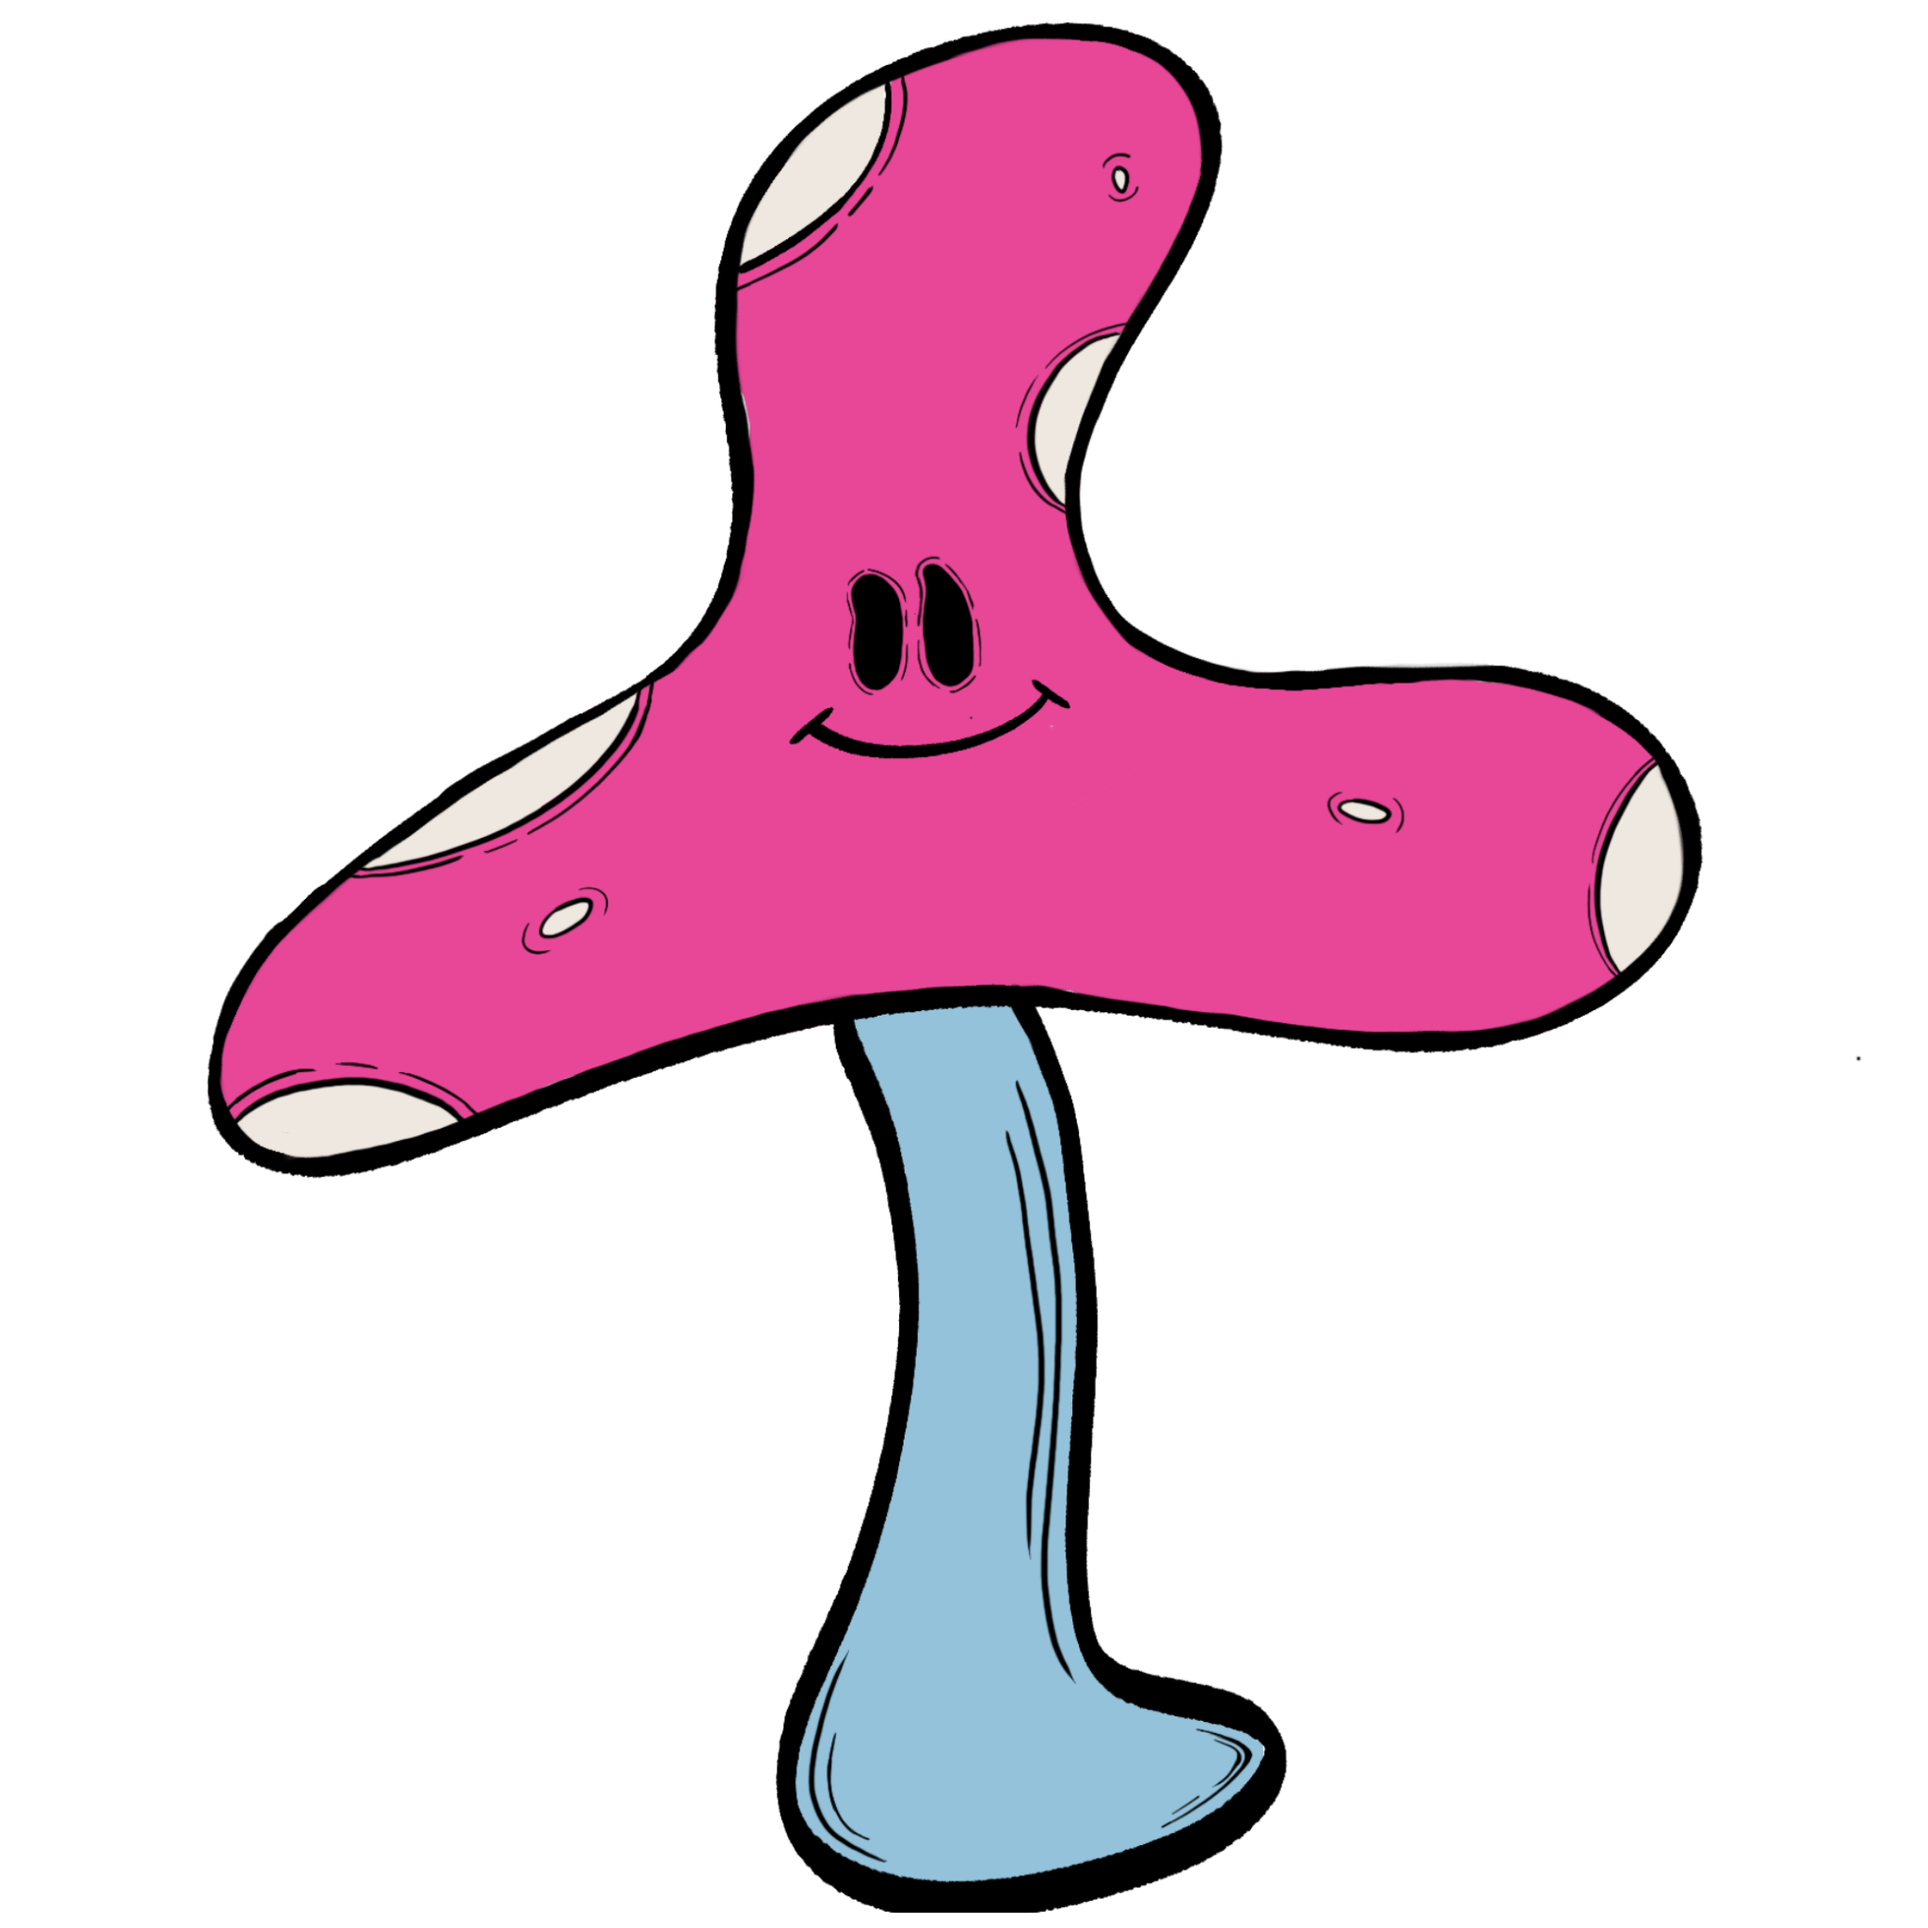
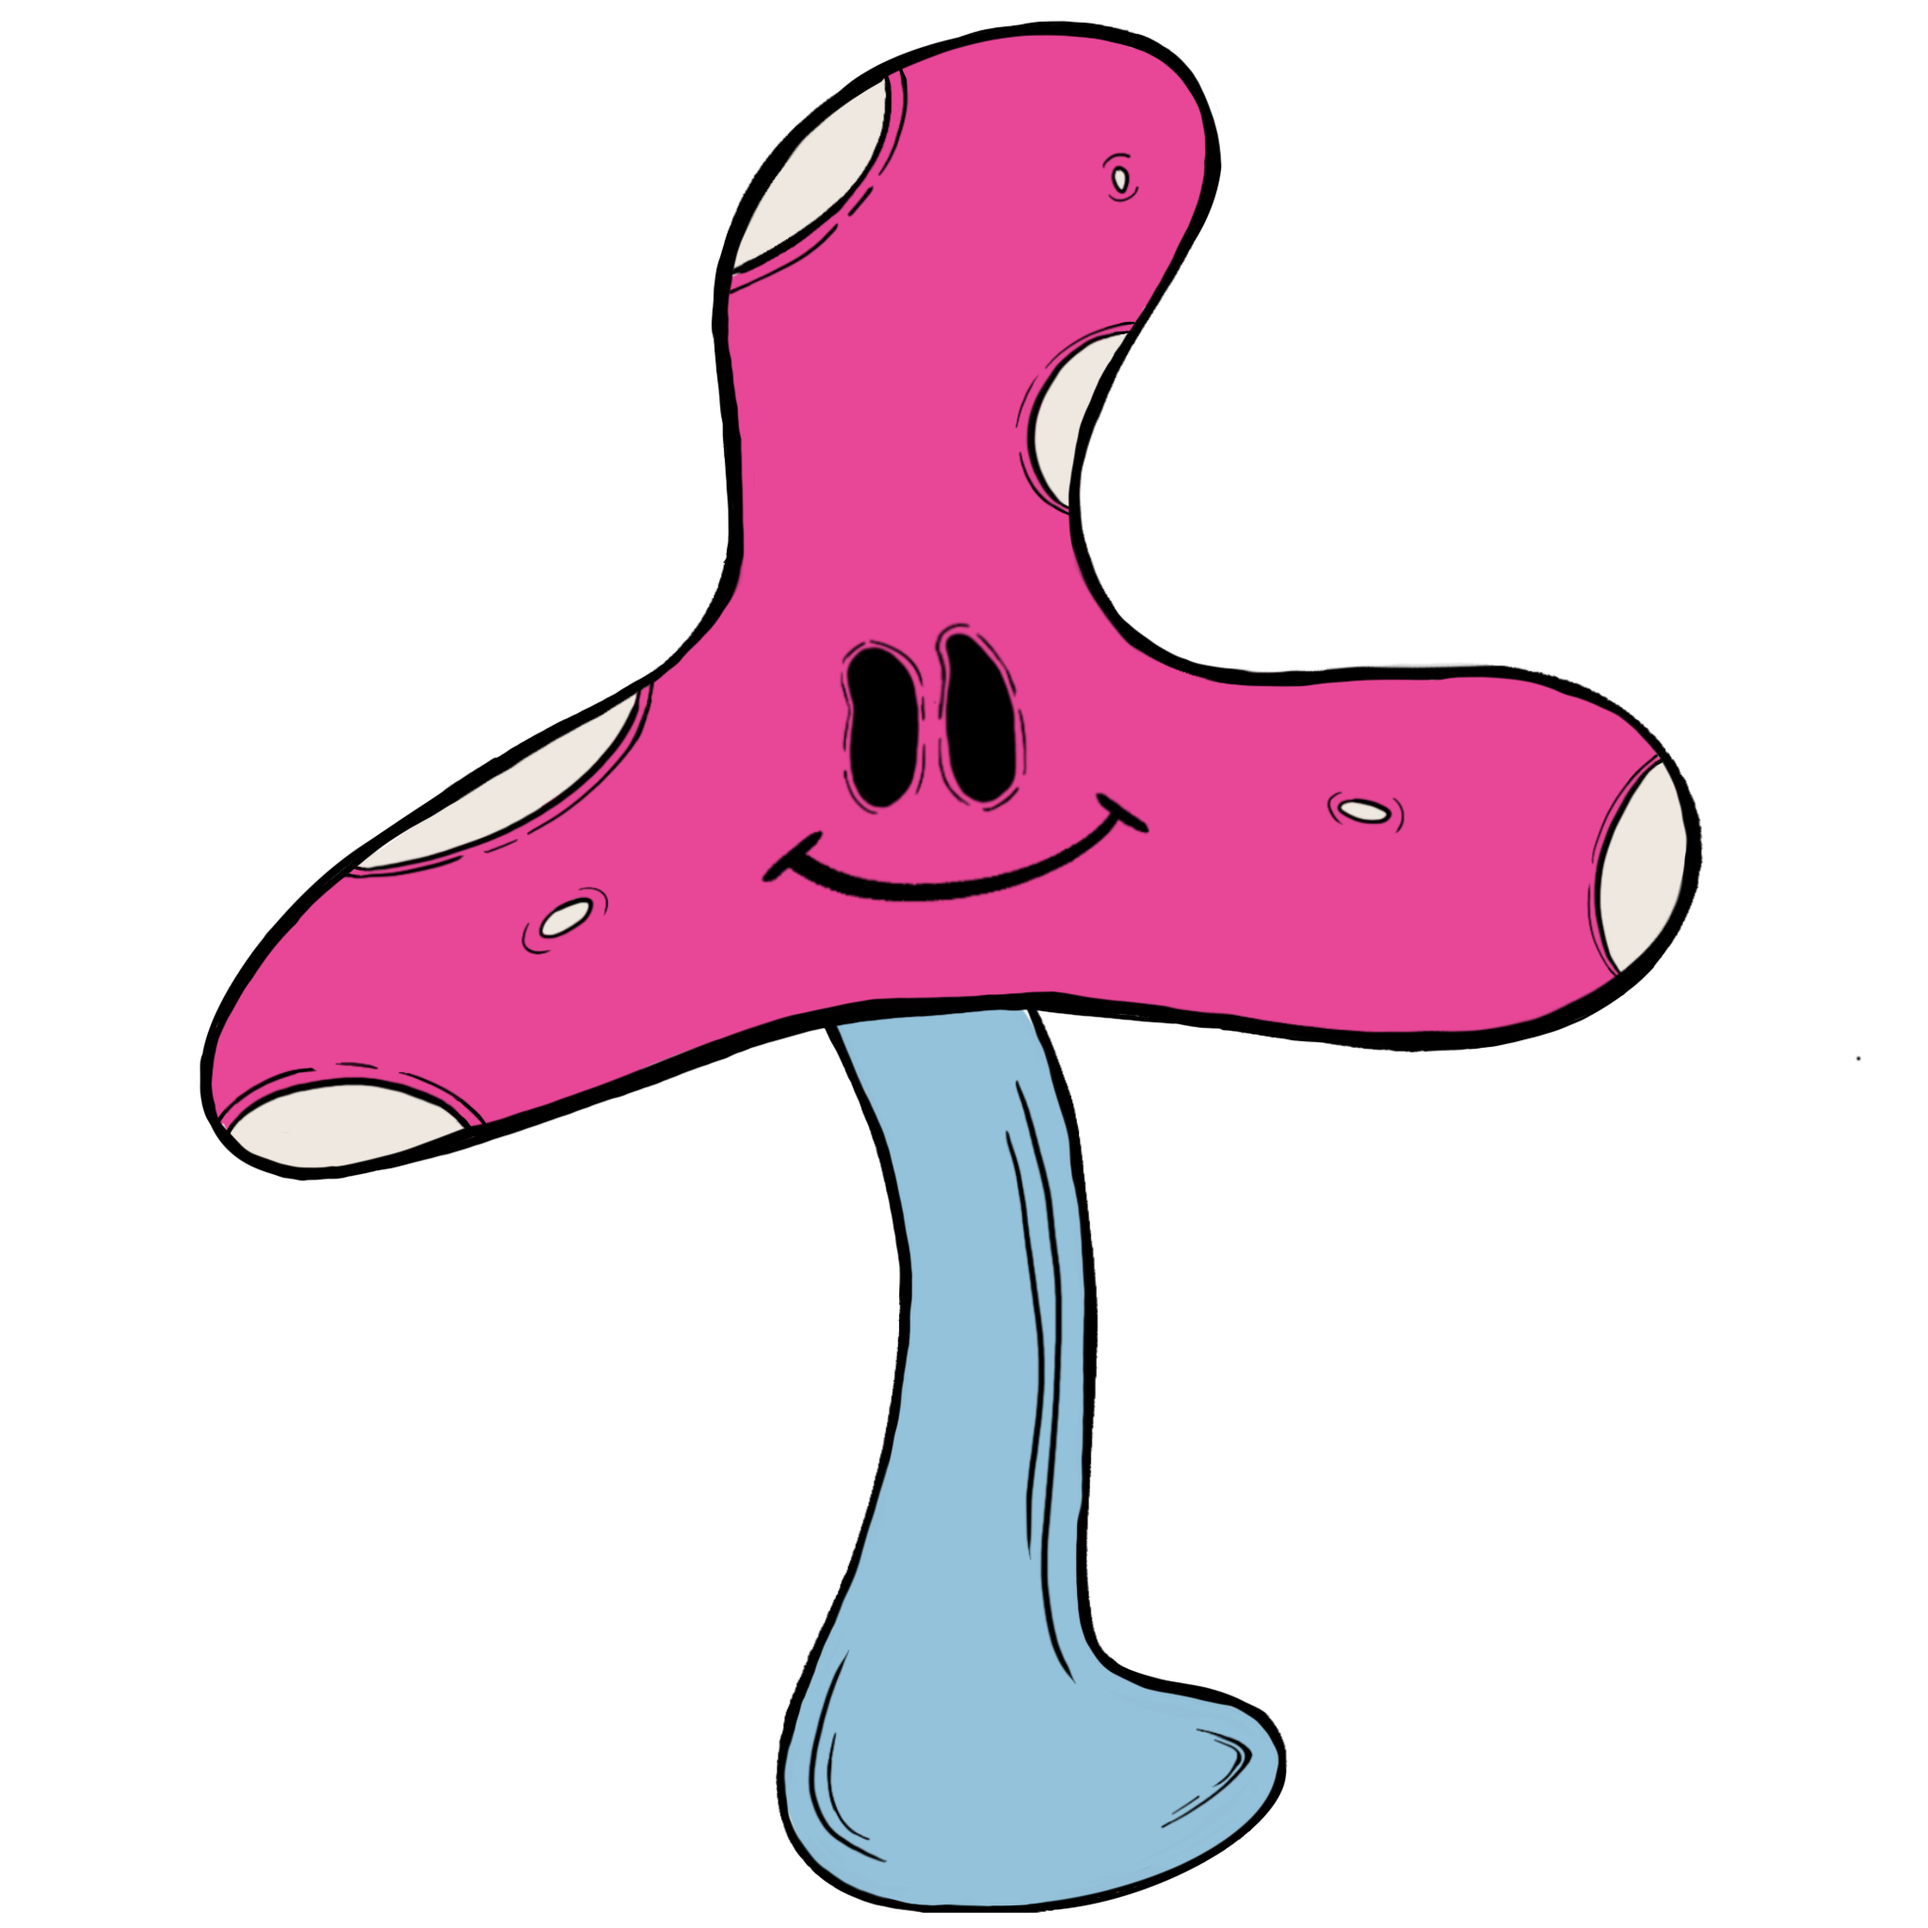
new mood and mascot designs

diff --git a/odako/lib/presentation/screens/mood_selection_screen.dart b/odako/lib/presentation/screens/mood_selection_screen.dart
@@ -17,25 +17,25 @@ class _MoodSelectionScreenState extends State<MoodSelectionScreen> {
     {
       'label': 'DEPRESSED',
       'face': 'lib/presentation/assets/face_bad.png',
-      'sliderColor': Color.fromARGB(255, 255, 100, 100), //RENKLER DÜZENLENECEK
-      'faceColor': Color.fromARGB(255, 255, 100, 100),
-      'backgroundColor': Color.fromARGB(255, 255, 200, 200),
+      'sliderColor': Color(0xFFCE6B70),
+      'faceColor': Color(0xFF693537),
+      //'faceColor': Color(0xFFCE6B70), //same color design
       'background': 'lib/presentation/assets/background_bad.png',
     },
     {
       'label': 'MEH',
       'face': 'lib/presentation/assets/face_mid.png',
-      'sliderColor': Color.fromARGB(255, 255, 212, 82), //RENKLER DÜZENLENECEK
-      'faceColor': Color.fromARGB(255, 255, 212, 82),
-      'backgroundColor': Color.fromARGB(255, 255, 233, 168),
+      'sliderColor': Color(0xFFF1CC59),
+      'faceColor': Color(0xFF786A3D),
+      //'faceColor': Color(0xFFF1CC59), //same color design
       'background': 'lib/presentation/assets/background_mid.png',
     },
     {
       'label': 'AMAZING',
       'face': 'lib/presentation/assets/face_good.png',
-      'sliderColor': Color.fromARGB(255, 173, 255, 91), //RENKLER DÜZENLENECEK
-      'faceColor': Color.fromARGB(255, 173, 255, 91),
-      'backgroundColor': Color.fromARGB(255, 229, 255, 202),
+      'sliderColor': Color(0xFFA6BA49),
+      'faceColor': Color(0xFF666F36),
+      //'faceColor': Color(0xFFA6BA49), //same color design
       'background': 'lib/presentation/assets/background_good.png',
     },
   ];

diff --git a/odako/lib/services/ai_service.dart b/odako/lib/services/ai_service.dart
@@ -11,8 +11,8 @@ final Map<int, String> moodPrompts = {
 };
 
 class AIService {
-  static const String _geminiApiKey = 'AIzaSyArxXZemsiMMfDstQ9MtfZpf3rrdMLg15k';
-  static const String _geminiApiUrl = 'https://generativelanguage.googleapis.com/v1beta/models/gemini-2.0-flash:generateContent'; 
+  static const String _geminiApiKey = '';
+  static const String _geminiApiUrl = ''; 
 
   static Future<Map<String, dynamic>?> fetchUserProfile({String? uid}) async {
     try {
